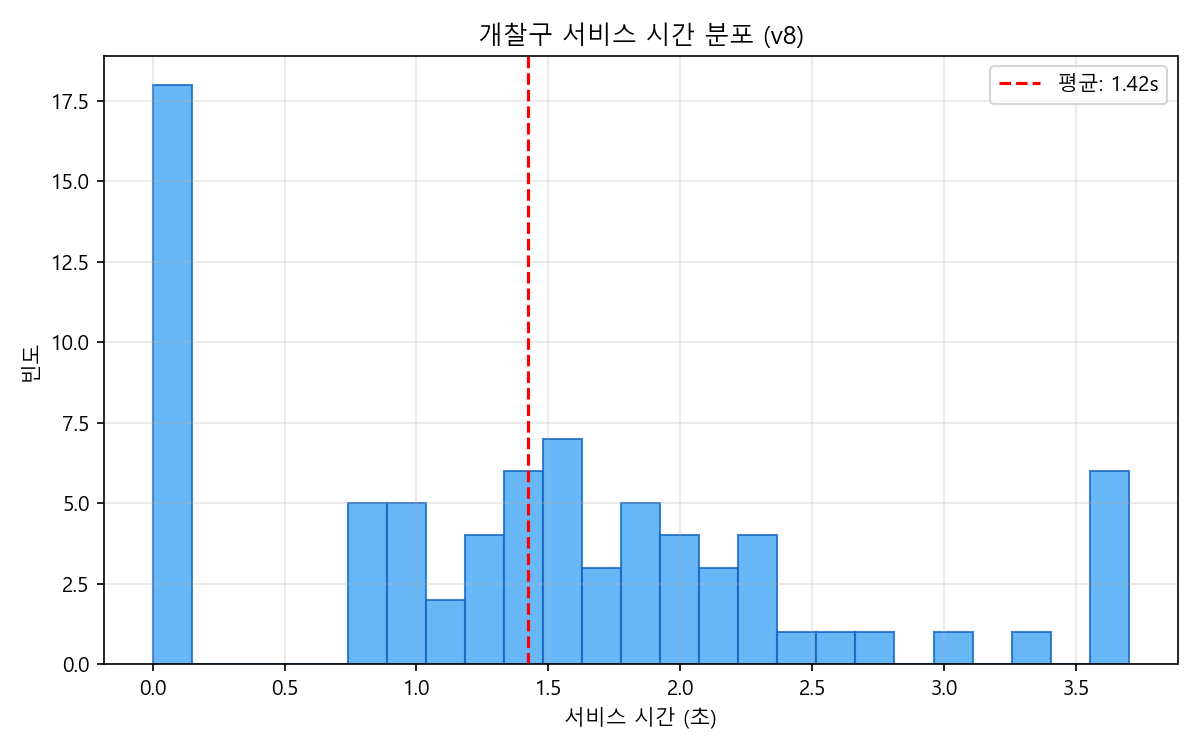
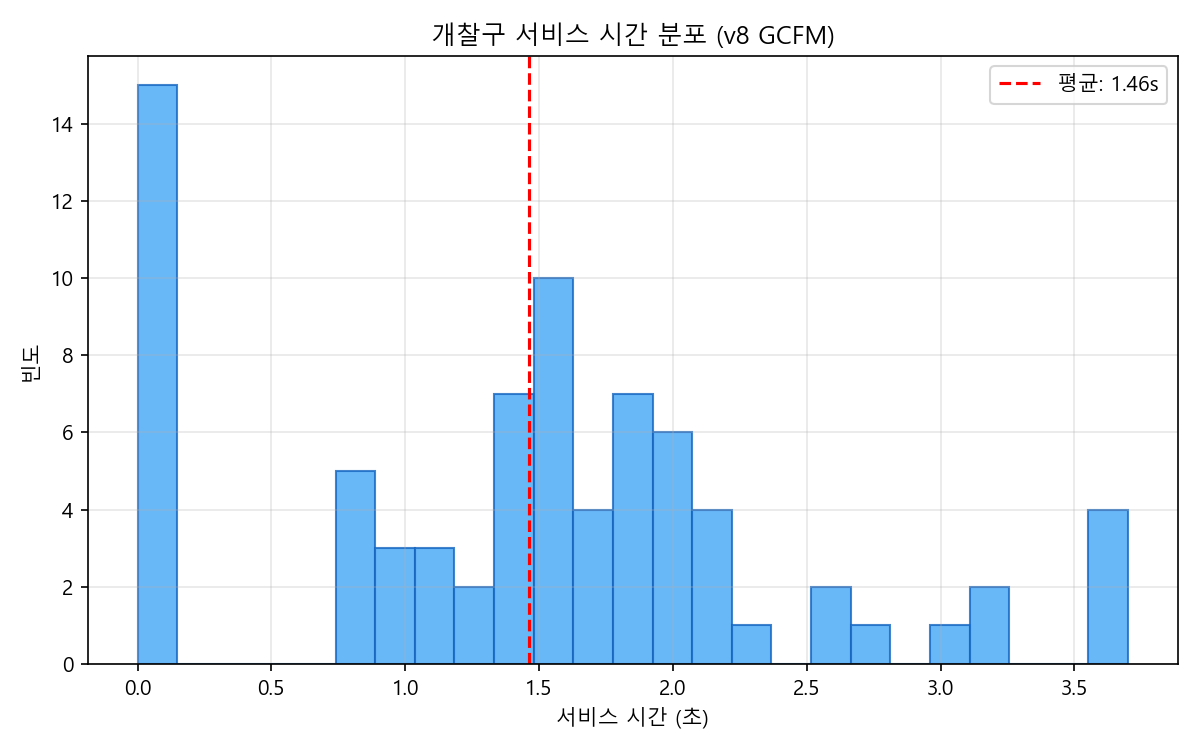
v8: GCFM + AnyLogic Linear Service 방식 게이트 통과
시뮬레이션 변경:
- SFM -> GCFM (GeneralizedCentrifugalForceModel) 교체
  - SFM 벽 관통 문제 해결 (에이전트 accessible area 이탈 에러)
  - 타원형 보행자: 좁은 공간 접근 시 어깨축 축소
- AnyLogic Linear Service 방식 게이트 통과 구현
  - 기존: 서비스 완료 -> 즉시 exit switch (텔레포트)
  - 수정: 서비스 완료 -> 0.65m/s로 게이트 출구까지 걸어서 이동
         -> 게이트 출구 통과 확인 후 exit switch
  - 태그리스: 일반 속도로 게이트를 걸어서 통과 (무정지)
- 결과: 77명 전원 통과, stuck 0명

방법론 문서 보강:
- GCFM 선정 이유를 선행연구 기반으로 작성
  - Chraibi et al. (2010): SFM 겹침/진동 해결, 타원형 병목 검증
  - Jain et al. (2025): 벤치마크에서 CFM > SFM 성능
  - Lin et al. (2023): 힘 기반 모델의 게이트 앞 자연 대기행렬 형성

diff --git a/simulation/run_west_simulation_v8.py b/simulation/run_west_simulation_v8.py
@@ -288,9 +288,13 @@ def create_simulation():
     # 시각화용: 배리어 포함
     _, vis_obstacles, gate_openings = build_geometry(gates, include_barrier=True)
 
-    model = jps.SocialForceModel(
-        body_force=SFM_BODY_FORCE,
-        friction=SFM_FRICTION,
+    model = jps.GeneralizedCentrifugalForceModel(
+        strength_neighbor_repulsion=0.3,
+        strength_geometry_repulsion=0.2,
+        max_neighbor_interaction_distance=2.0,
+        max_geometry_interaction_distance=2.0,
+        max_neighbor_repulsion_force=9.0,
+        max_geometry_repulsion_force=3.0,
     )
 
     sim = jps.Simulation(model=model, geometry=walkable, dt=DT)
@@ -446,17 +450,17 @@ def run_simulation():
 
                 try:
                     agent_id = sim.add_agent(
-                        jps.SocialForceModelAgentParameters(
+                        jps.GeneralizedCentrifugalForceModelAgentParameters(
                             journey_id=jid,
                             stage_id=sid,
                             position=(spawn_x, spawn_y),
                             desired_speed=desired_speed,
-                            mass=SFM_MASS,
-                            reaction_time=SFM_REACTION_TIME,
-                            agent_scale=SFM_AGENT_SCALE,
-                            obstacle_scale=SFM_OBSTACLE_SCALE,
-                            force_distance=SFM_FORCE_DISTANCE,
-                            radius=SFM_RADIUS,
+                            mass=1.0,
+                            tau=0.5,
+                            a_v=1.0,
+                            a_min=0.2,
+                            b_min=0.2,
+                            b_max=0.4,
                         ))
                     agent_data[agent_id] = {
                         "gate_idx": gate_idx,
@@ -490,7 +494,8 @@ def run_simulation():
             if gi >= 0:
                 gate_occupied[gi] = True
 
-        # ── 서비스 완료 체크 (위치 무관) ──
+        # ── 서비스 완료 체크: AnyLogic Linear Service 방식 ──
+        # Phase 1: 서비스 시간 만료 → 게이트 출구 waypoint로 걸어서 이동
         finished_aids = []
         for aid_s, svc in in_service.items():
             if current_time - svc["start"] >= svc["duration"]:
@@ -499,24 +504,46 @@ def run_simulation():
             if aid_s in agent_data:
                 ad_s = agent_data[aid_s]
                 gi_s = ad_s["gate_idx"]
-                ad_s["serviced"] = True
-                ad_s["state"] = "done"
-                if gi_s >= 0:
-                    stats["gate_counts"][gi_s] += 1
+                # 서비스 시간 완료 → 게이트 출구까지 걸어서 나감 (텔레포트 X)
+                ad_s["state"] = "in_gate_walking"
                 stats["service_times"].append(in_service[aid_s]["duration"])
-                gate_occupied[gi_s] = False
+                gate_occupied[gi_s] = False  # 게이트 해제 (다음 사람 진입 가능)
                 for agent in sim.agents():
                     if agent.id == aid_s:
-                        agent.model.desired_speed = ad_s["original_speed"]
-                        gy = gates[gi_s]["y"]
-                        target_exit = exit_upper if gy > CONCOURSE_WIDTH / 2 else exit_lower
+                        agent.model.desired_speed = GATE_PASS_SPEED  # 0.65 m/s로 걸어나감
                         try:
                             sim.switch_agent_journey(
-                                aid_s, journey_ids[gi_s], target_exit)
+                                aid_s, journey_ids[gi_s], post_gate_wp_ids[gi_s])
                         except Exception:
                             pass
                         break
             del in_service[aid_s]
+
+        # Phase 2: 게이트 출구 통과 완료 체크 (물리적으로 게이트를 빠져나갔는지)
+        gate_x_end = GATE_X + GATE_LENGTH
+        for agent in sim.agents():
+            aid = agent.id
+            if aid not in agent_data:
+                continue
+            ad = agent_data[aid]
+            if ad["state"] != "in_gate_walking":
+                continue
+            px, py = agent.position
+            # 게이트 출구(x_end) 넘어갔으면 → 서비스 완전 완료
+            if px > gate_x_end + 0.3:
+                gi_s = ad["gate_idx"]
+                ad["serviced"] = True
+                ad["state"] = "done"
+                if gi_s >= 0:
+                    stats["gate_counts"][gi_s] += 1
+                agent.model.desired_speed = ad["original_speed"]
+                gy = gates[gi_s]["y"]
+                target_exit = exit_upper if gy > CONCOURSE_WIDTH / 2 else exit_lower
+                try:
+                    sim.switch_agent_journey(
+                        aid, journey_ids[gi_s], target_exit)
+                except Exception:
+                    pass
 
         # ── 에이전트별 상태 제어 ──
         gate_queue = count_gate_queue(sim, gates, agent_data)
@@ -532,6 +559,10 @@ def run_simulation():
             px, py = agent.position
             gi = ad["gate_idx"]
             dist_to_gate = GATE_X - px
+
+            # 게이트 통과 중인 에이전트는 건드리지 않음
+            if ad["state"] == "in_gate_walking":
+                continue
 
             # ── Phase 0: Influence Zone 진입 ──
             if ad["choice_stage"] == 0 and dist_to_gate <= CHOICE_DIST_1ST:
@@ -570,18 +601,15 @@ def run_simulation():
                         except Exception:
                             pass
 
-                # 태그리스: 무정지 통과
+                # 태그리스: 일반 보행속도로 게이트를 걸어서 통과 (무정지)
                 if ad["is_tagless"] and aid not in in_service:
-                    ad["serviced"] = True
-                    ad["state"] = "done"
-                    stats["gate_counts"][gi] += 1
+                    ad["state"] = "in_gate_walking"
                     stats["service_times"].append(0.0)
+                    # 속도 유지한 채 게이트 출구 waypoint로 이동
                     agent.model.desired_speed = ad["original_speed"]
-                    gy = gates[gi]["y"]
-                    target_exit = exit_upper if gy > CONCOURSE_WIDTH / 2 else exit_lower
                     try:
                         sim.switch_agent_journey(
-                            aid, journey_ids[gi], target_exit)
+                            aid, journey_ids[gi], post_gate_wp_ids[gi])
                     except Exception:
                         pass
                     continue

diff --git a/docs/create_methodology_setup.py b/docs/create_methodology_setup.py
@@ -89,15 +89,42 @@ doc.add_paragraph(
     '보행자 이동 모델은 Generalized Centrifugal Force Model (GCFM, Chraibi et al., 2010)을 채택한다.'
 )
 
-doc.add_paragraph('GCFM 선정 이유:')
-for r in [
-    'SFM 계열의 힘(force) 기반 모델로, 대기행렬에서 줄서기 행태가 자연 발생 '
-    '(전방 인력 + 후방 압력의 균형)',
-    '타원형 보행자 모델 - 보행 속도에 따라 어깨축이 축소되어 좁은 공간 접근 시 현실적 체형 변화 반영',
-    'JuPedSim 개발팀(율리히 연구소)이 직접 개발한 모델로 프레임워크와의 호환성 최적',
-    'PTV Viswalk 등 상용 소프트웨어도 SFM/힘 기반 모델을 채택하고 있어 방법론적 정합성 확보',
-]:
-    doc.add_paragraph(r, style='List Bullet')
+doc.add_paragraph('GCFM 선정 이유 (선행연구 기반):')
+
+doc.add_paragraph(
+    '첫째, SFM의 구조적 한계 해결. '
+    'Chraibi et al. (2010)은 기존 SFM에서 발생하는 보행자 간 겹침(overlapping), '
+    '비현실적 진동(oscillation), 속도 이상 문제를 GCFM이 해결함을 보였다. '
+    'Jain et al. (2025)의 벤치마크 연구에서도 SFM(원형/타원형 모두)은 '
+    '병목 시나리오에서 80% 이상 성공률을 달성하지 못한 반면, '
+    'CFM 계열이 상대적으로 양호한 성능을 보였다.'
+)
+
+doc.add_paragraph(
+    '둘째, 타원형 보행자 모델에 의한 현실적 병목 통과. '
+    'GCFM은 보행자를 원형이 아닌 타원형으로 모델링하며, '
+    '보행 속도에 따라 어깨축(b)이 축소된다. Chraibi et al. (2010)은 '
+    '원형 모델이 보행자의 비대칭적 공간 점유(진행 방향 vs 어깨 방향)를 '
+    '반영하지 못함을 지적하며, 타원형 모델이 좁은 병목(bottleneck)에서 '
+    '실험 데이터와 더 잘 일치함을 다양한 출구 폭 실험으로 검증하였다.'
+)
+
+doc.add_paragraph(
+    '셋째, 힘 기반 모델의 대기행렬 형성. '
+    'Lin et al. (2023)은 Modified SFM을 이용하여 지하철 게이트 기계가 '
+    '보행자 흐름에 미치는 영향을 시뮬레이션하였다. '
+    '힘 기반 모델에서 게이트 앞 보행자는 전방 인력과 후방 압력의 균형으로 '
+    '자연스러운 줄서기(fan/arch 형태)를 형성하며, '
+    '이는 속도 기반 모델(CFSM 등)에서 코드로 강제해야 하는 행태이다. '
+    '게이트가 적절히 배치되면 오히려 보행자 흐름을 질서화하여 '
+    '통과 효율을 높일 수 있음을 보였다.'
+)
+
+doc.add_paragraph(
+    '넷째, PTV Viswalk 등 상용 소프트웨어도 SFM/힘 기반 모델을 채택하고 있어 '
+    '방법론적 정합성이 확보된다. 또한 GCFM은 JuPedSim 개발팀(율리히 연구소)이 '
+    '직접 개발한 모델로 프레임워크와의 호환성이 최적이다.'
+)
 
 add_heading('2.1.1 게이트 통과 메커니즘', level=3)
 doc.add_paragraph(
